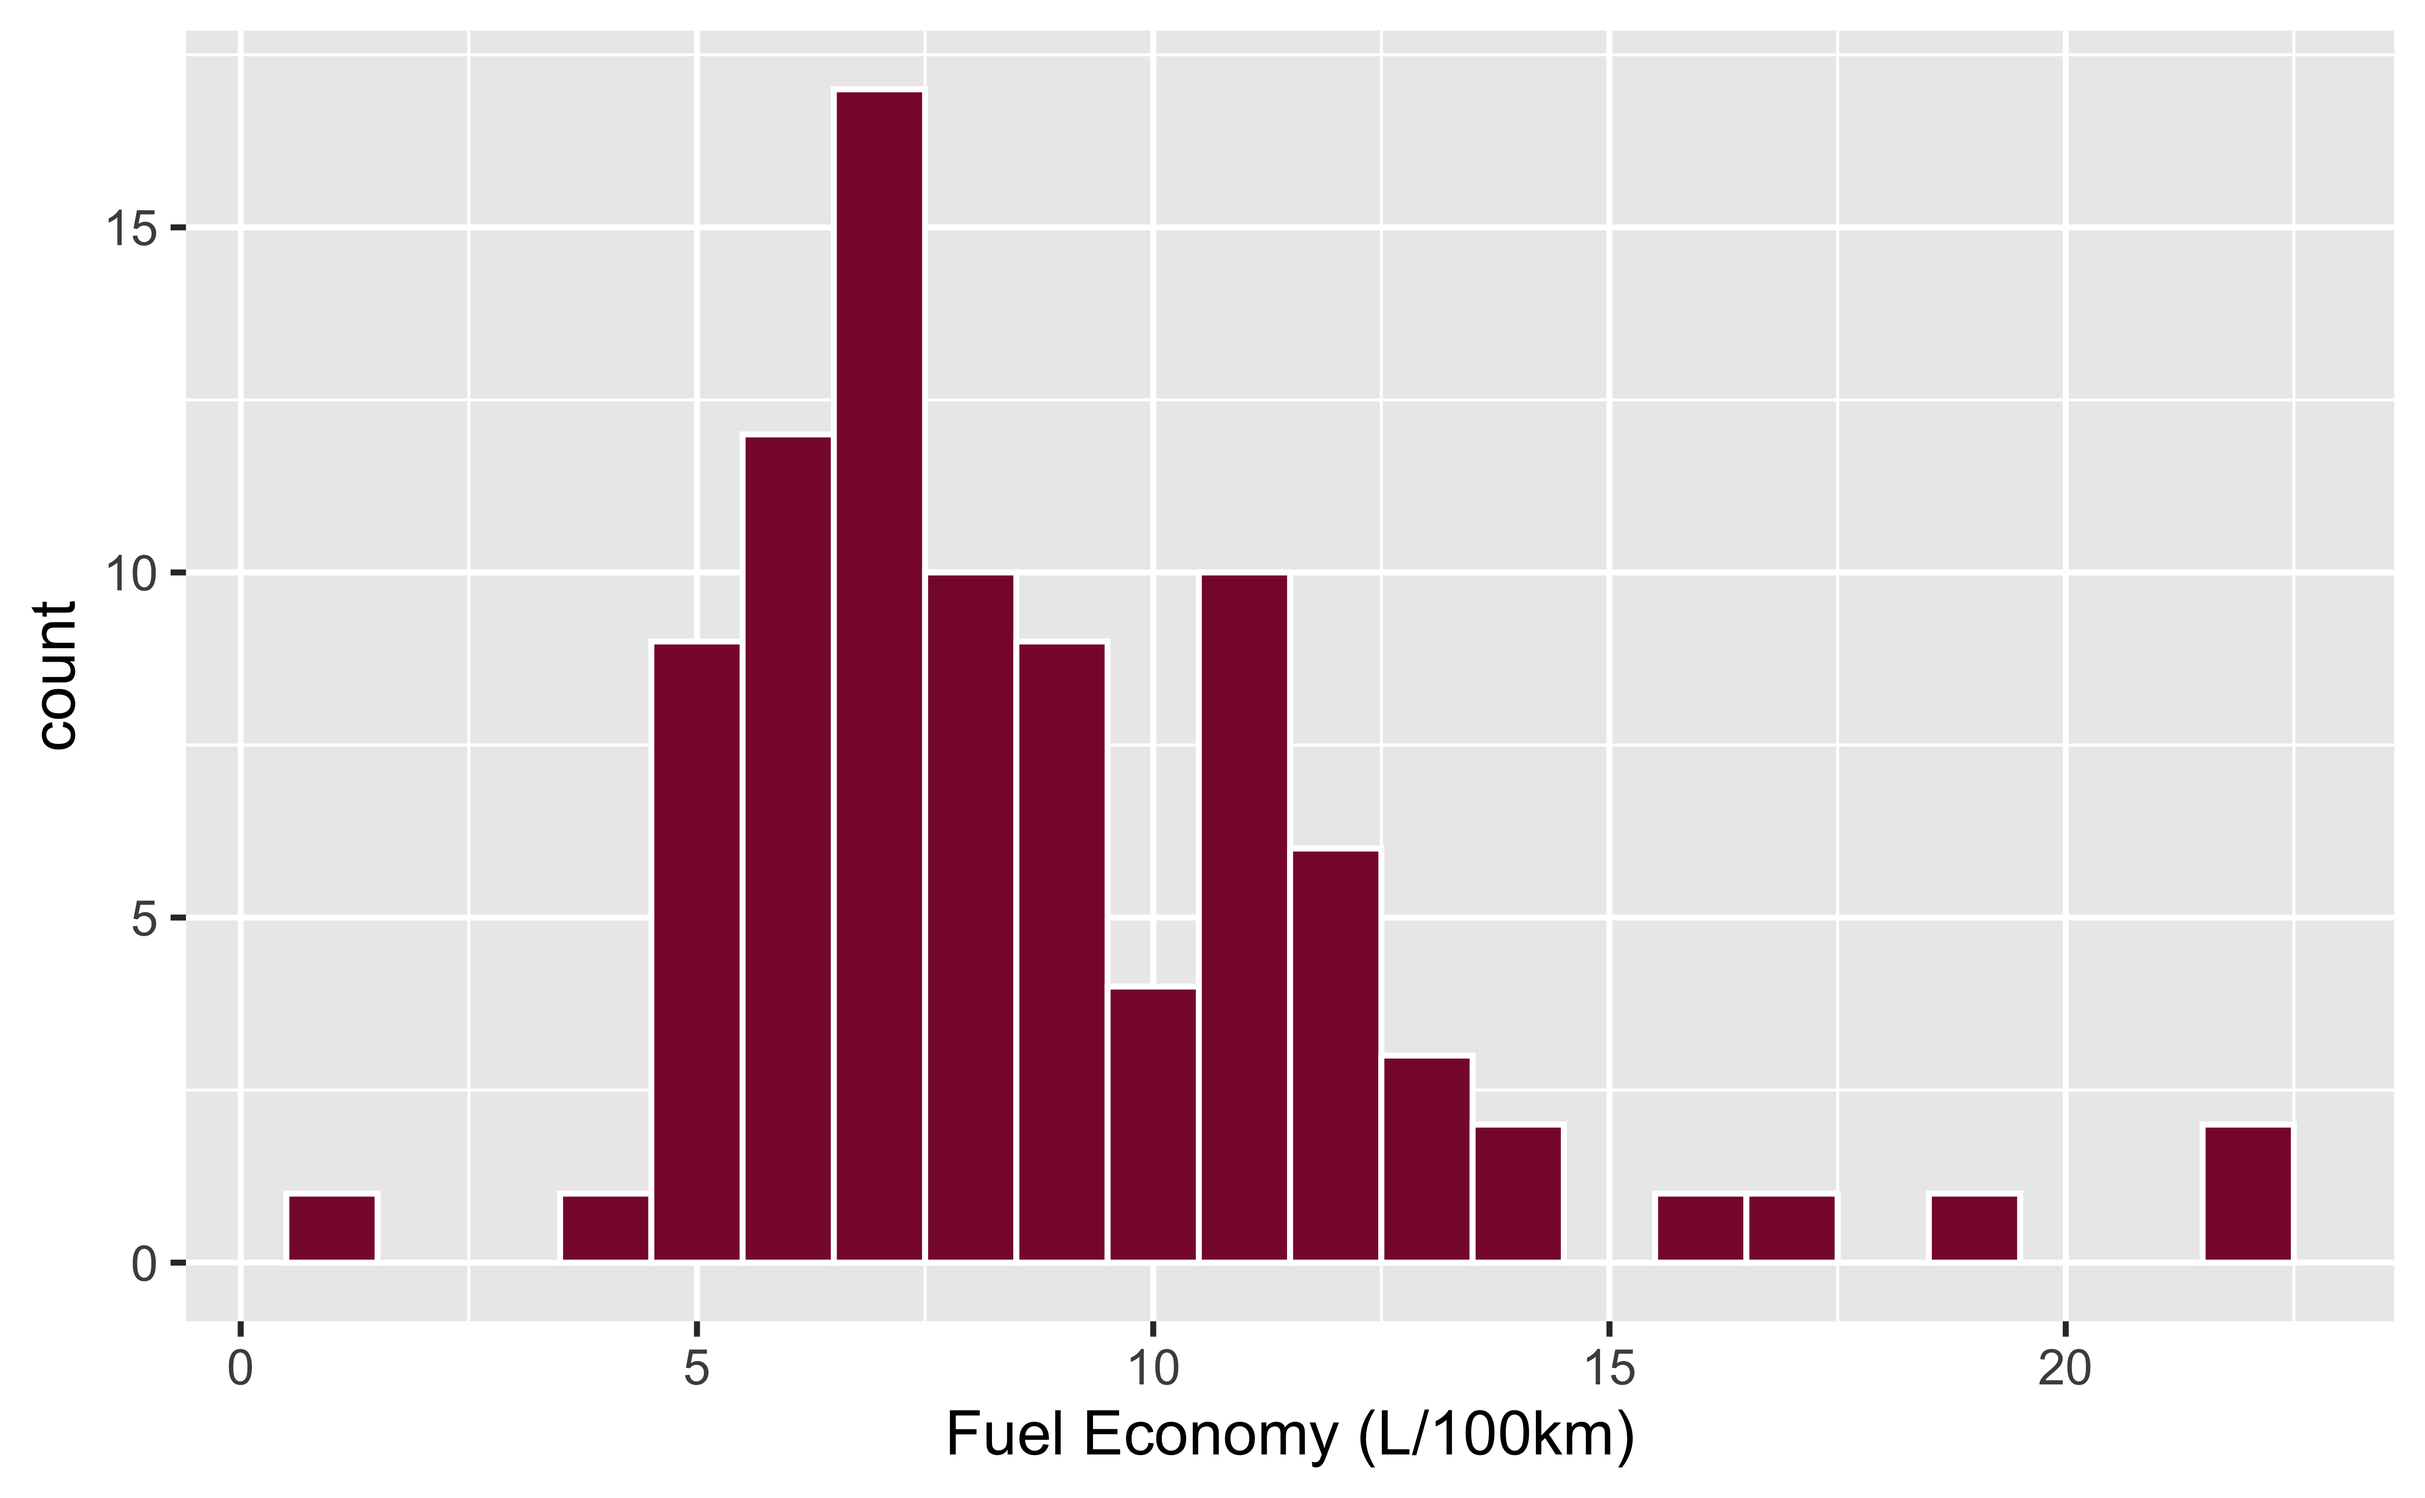
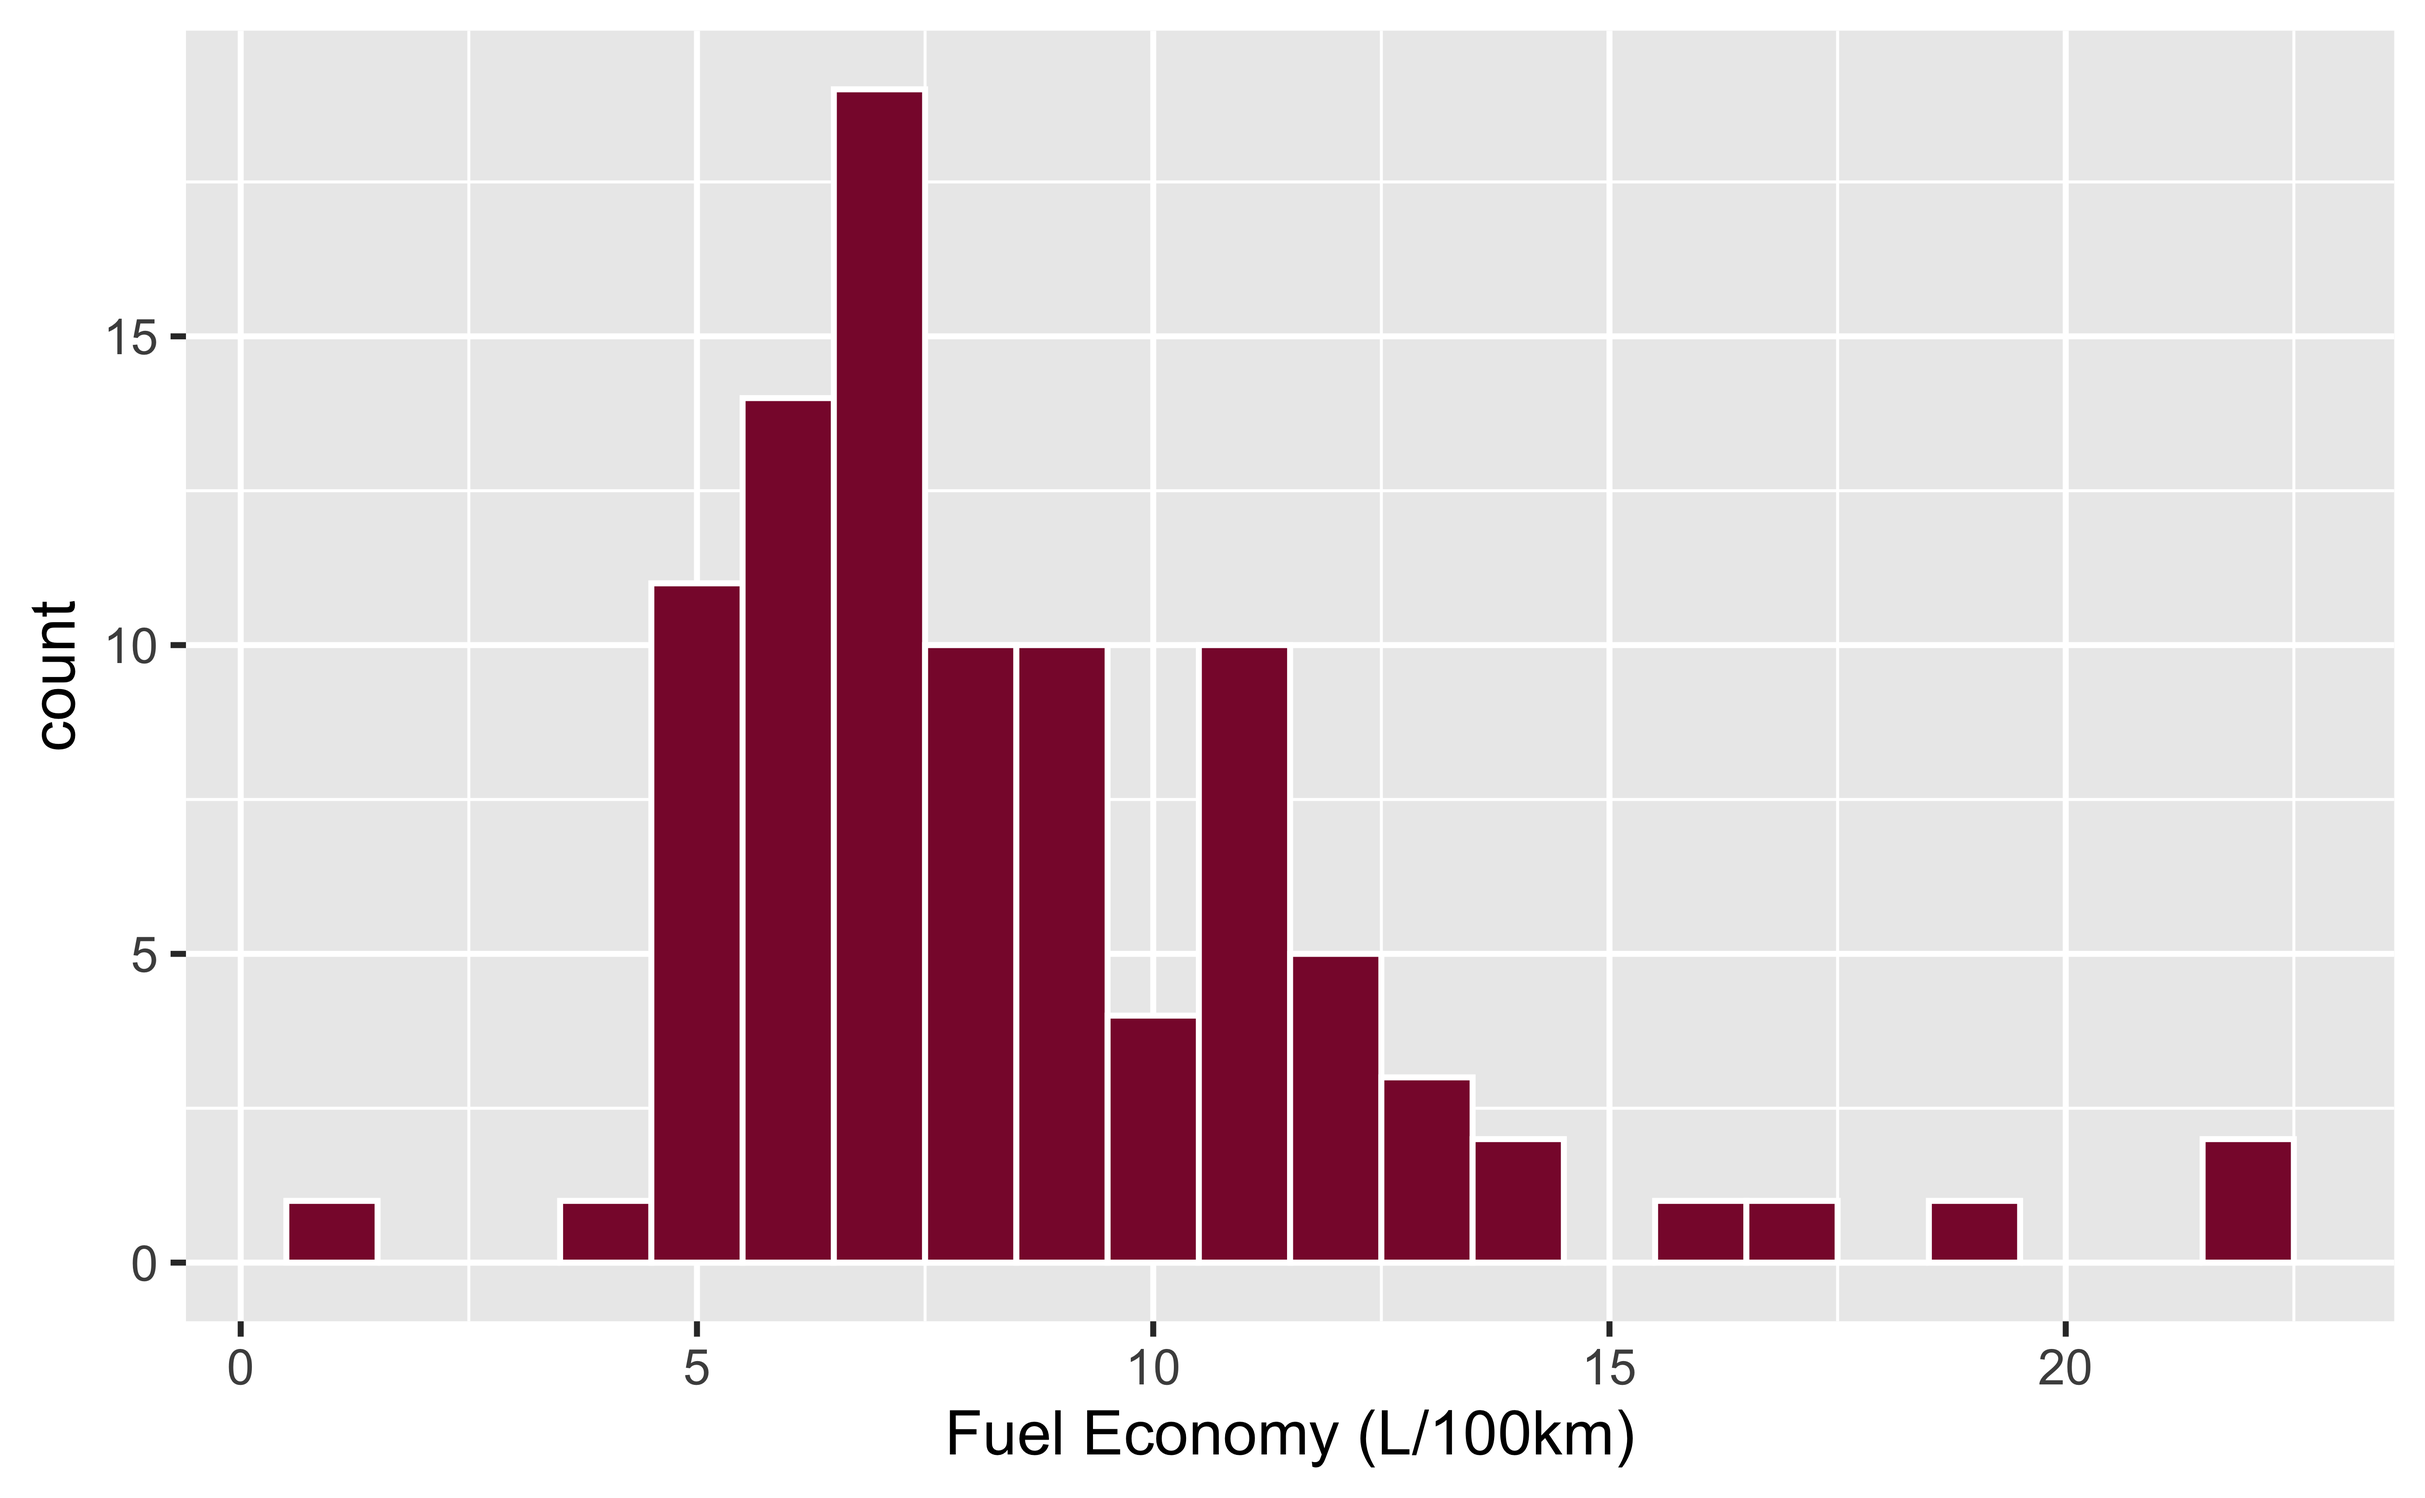
Demonstrate currency conversion + color

diff --git a/README.md b/README.md
@@ -9,14 +9,14 @@
 <!-- badges: start -->
 
 [![CRAN
-status](https://www.r-pkg.org/badges/version/qatarcars)](https://cran.r-project.org/package=qatarcars)
+status](https://www.r-pkg.org/badges/version/qatarcars.png)](https://cran.r-project.org/package=qatarcars)
 [![R-CMD-check](https://github.com/profmusgrave/qatarcars/actions/workflows/R-CMD-check.yaml/badge.svg)](https://github.com/profmusgrave/qatarcars/actions/workflows/R-CMD-check.yaml)
 [![Lifecycle:
 stable](https://img.shields.io/badge/lifecycle-stable-brightgreen.svg)](https://lifecycle.r-lib.org/articles/stages.html#stable)
 <br>
 [![DOI](https://img.shields.io/badge/JPSE_DOI-10.1080%2F15512169.2025.2572320-336197)](https://doi.org/10.1080/15512169.2025.2572320)
 ![CC-BY-4.0
-license](https://img.shields.io/github/license/profmusgrave/qatarcars)
+license](https://img.shields.io/github/license/profmusgrave/qatarcars.png)
 <!-- badges: end -->
 
 ## Overview
@@ -28,17 +28,17 @@ metric measurements, making it more appropriate for use as an example
 dataset outside the United States. It includes almost exactly the same
 variables as the `mtcars` dataset:
 
-- `origin` (the country associated with the car brand)
-- `make` (the brand of the car, such as Toyota or Land Rover)
-- `model` (the specific type of car, such as Land Cruiser or Defender)
-- `length`, `width`, and `height` (all in meters)
-- `trunk` capacity (measured in liters)
-- fuel `economy` (measured in liters per 100 km)
-- `performance` (time in seconds to accelerate from 0 to 100km/h)
-- `mass` in kilograms
-- `price` in 2025 Qatari riyals
-- `type` (the type of the car, such as coupe, sedan, or SUV)
-- `enginetype` (electric, hybrid, or petrol)
+-   `origin` (the country associated with the car brand)
+-   `make` (the brand of the car, such as Toyota or Land Rover)
+-   `model` (the specific type of car, such as Land Cruiser or Defender)
+-   `length`, `width`, and `height` (all in meters)
+-   `trunk` capacity (measured in liters)
+-   fuel `economy` (measured in liters per 100 km)
+-   `performance` (time in seconds to accelerate from 0 to 100km/h)
+-   `mass` in kilograms
+-   `price` in 2025 Qatari riyals
+-   `type` (the type of the car, such as coupe, sedan, or SUV)
+-   `enginetype` (electric, hybrid, or petrol)
 
 The original data was compiled by [Paul
 Musgrave](https://paulmusgrave.info/) in January 2025 and is mostly
@@ -58,45 +58,45 @@ and process of collecting the data:
 
 The Qatar Cars data is available in several different formats:
 
-- **This {qatarcars} R package**. See below for complete details. Load
-  like this:
+-   **This {qatarcars} R package**. See below for complete details. Load
+    like this:
 
-  ``` r
-  library(qatarcars)
-  qatarcars
-  ```
+    ``` r
+    library(qatarcars)
+    qatarcars
+    ```
 
-- [**Plain text CSV
-  file**](https://github.com/profmusgrave/qatarcars/blob/main/inst/extdata/qatarcars.csv).
-  Use with any software.
+-   [**Plain text CSV
+    file**](https://github.com/profmusgrave/qatarcars/blob/main/inst/extdata/qatarcars.csv).
+    Use with any software.
 
-- [**Stata .dta
-  file**](https://qatarcars.georgetown.domains/qatarcars.dta). Load like
-  this:
+-   [**Stata .dta
+    file**](https://qatarcars.georgetown.domains/qatarcars.dta). Load
+    like this:
 
-  ``` stata
-  use "https://qatarcars.georgetown.domains/qatarcars.dta"
-  list in 1/6
-  ```
+    ``` stata
+    use "https://qatarcars.georgetown.domains/qatarcars.dta"
+    list in 1/6
+    ```
 
-- [**R .rds
-  file**](https://github.com/profmusgrave/qatarcars/blob/main/inst/extdata/qatarcars.rds).
-  Load like this:
+-   [**R .rds
+    file**](https://github.com/profmusgrave/qatarcars/blob/main/inst/extdata/qatarcars.rds).
+    Load like this:
 
-  ``` r
-  df <- readRDS("qatarcars.rds")
-  head(df)
-  ```
+    ``` r
+    df <- readRDS("qatarcars.rds")
+    head(df)
+    ```
 
-- [**The QatarCars Python
-  package**](https://github.com/prlitics/qatarcars). Install with
-  `pip install qatarcars`, then load like this:
+-   [**The QatarCars Python
+    package**](https://github.com/prlitics/qatarcars). Install with
+    `pip install qatarcars`, then load like this:
 
-  ``` python
-  from qatarcars import get_qatar_cars
-  df = get_qatar_cars("pandas")  # or "polars"
-  df.head()
-  ```
+    ``` python
+    from qatarcars import get_qatar_cars
+    df = get_qatar_cars("pandas")  # or "polars"
+    df.head()
+    ```
 
 ## Installation
 
@@ -128,25 +128,25 @@ the data by running `library(qatarcars)`:
 library(qatarcars)
 
 qatarcars
-#> # A tibble: 99 × 15
+#> # A tibble: 105 × 15
 #>    origin  make     model   length width height seating trunk economy horsepower
 #>    <fct>   <fct>    <fct>    <dbl> <dbl>  <dbl>   <dbl> <dbl>   <dbl>      <dbl>
-#>  1 Germany BMW      3 Seri…   4.71  1.83   1.44       5   480    11.8        184
-#>  2 Germany BMW      3 Seri…   4.71  1.83   1.44       5    59     7.6        386
-#>  3 Germany BMW      X1        4.50  1.84   1.64       5   505     6.6        313
-#>  4 Germany Audi     RS Q8     5.01  1.69   2.00       5   605    12.1        600
-#>  5 Germany Audi     RS3       4.54  1.85   1.41       5   321     8.7        400
-#>  6 Germany Audi     A3        4.46  1.96   1.42       5   425     6.5        180
-#>  7 Germany Mercedes Maybach   5.47  1.92   1.51       4   500    13.3        612
-#>  8 Germany Mercedes G-Wagon   4.61  1.98   1.97       5   480    13.1        585
-#>  9 Germany Mercedes EQS       5.22  1.93   1.51       5   610    NA          333
-#> 10 Germany Mercedes GLA       4.41  1.83   1.61       5   435     5.6        163
-#> # ℹ 89 more rows
+#>  1 Germany BMW      3 Seri…   4.71  1.83   1.44       5    59     7.6        386
+#>  2 Germany BMW      X1        4.50  1.84   1.64       5   505     6.6        313
+#>  3 Germany Audi     RS Q8     5.01  1.69   2.00       5   605    12.1        600
+#>  4 Germany Audi     RS3       4.54  1.85   1.41       5   321     8.7        400
+#>  5 Germany Audi     A3        4.46  1.96   1.42       5   425     6.5        180
+#>  6 Germany Mercedes Maybach   5.47  1.92   1.51       4   500    13.3        612
+#>  7 Germany Mercedes G-Wagon   4.61  1.98   1.97       5   480    13.1        585
+#>  8 Germany Mercedes EQS       5.22  1.93   1.51       5   610    NA          333
+#>  9 Germany Mercedes GLA       4.41  1.83   1.61       5   435     5.6        163
+#> 10 Germany Mercedes GLB 200   4.63  4.63   1.66       5   565     7.5        221
+#> # ℹ 95 more rows
 #> # ℹ 5 more variables: price <dbl>, mass <dbl>, performance <dbl>, type <fct>,
 #> #   enginetype <fct>
 ```
 
-> [!TIP]
+> **Tip**
 >
 > If you have [{tibble}](https://tibble.tidyverse.org/) installed
 > (likely as part of [the tidyverse](https://www.tidyverse.org/)),
@@ -155,6 +155,70 @@ qatarcars
 > frame.
 
 See `?qatarcars` for data documentation within R.
+
+### Currency conversion
+
+Prices are stored as Qatari Riyals (QAR). At the time of data collection
+in January 2025, the exchange rates between QAR and US Dollars and Euros
+were:
+
+-   1 USD = 3.64 QAR
+-   1 EUR = 4.15 QAR
+
+For convenience, this package includes functions for converting between
+these three currencies based on January 2025 exchange rates:
+
+``` r
+qar_to_usd(qar)
+qar_to_eur(qar)
+usd_to_qar(usd)
+usd_to_eur(usd)
+eur_to_qar(eur)
+eur_to_usd(eur)
+```
+
+``` r
+library(dplyr)
+
+qatarcars |>
+  mutate(
+    price_eur = qar_to_eur(price),
+    price_usd = qar_to_usd(price)
+  ) |>
+  select(origin, make, model, starts_with("price"))
+#> # A tibble: 105 × 6
+#>    origin  make     model            price price_eur price_usd
+#>    <fct>   <fct>    <fct>            <dbl>     <dbl>     <dbl>
+#>  1 Germany BMW      3 Series Sedan  164257    39580     45126.
+#>  2 Germany BMW      X1              264000    63614.    72527.
+#>  3 Germany Audi     RS Q8           630000   151807.   173077.
+#>  4 Germany Audi     RS3             310000    74699.    85165.
+#>  5 Germany Audi     A3              165000    39759.    45330.
+#>  6 Germany Mercedes Maybach        1281000   308675.   351923.
+#>  7 Germany Mercedes G-Wagon        1011500   243735.   277885.
+#>  8 Germany Mercedes EQS             564500   136024.   155082.
+#>  9 Germany Mercedes GLA             209500    50482.    57555.
+#> 10 Germany Mercedes GLB 200         168997    40722.    46428.
+#> # ℹ 95 more rows
+```
+
+### Color
+
+The official colors of the Qatari flag are [white and Pantone 1955 C, or
+“Qatar maroon.”](https://en.wikipedia.org/wiki/Flag_of_Qatar) The hex
+representation of this color is `#8A1538`.
+
+For convenience, this is included as `qatar_maroon`:
+
+``` r
+qatar_maroon
+#> [1] "#8A1538"
+
+scales::show_col(qatar_maroon)
+```
+
+<img src="man/figures/README-show-qatar-maroon-1.png"
+style="width:25.0%" data-fig-align="center" />
 
 ### Labels
 
@@ -178,11 +242,24 @@ labels](https://www.tidyverse.org/blog/2025/09/ggplot2-4-0-0/#labels):
 library(ggplot2)
 
 ggplot(qatarcars, aes(x = economy)) + 
-  geom_histogram(binwidth = 1, fill = "#8A1538", color = "white")
+  geom_histogram(binwidth = 1, fill = qatar_maroon, color = "white")
 ```
 
 <img src="man/figures/README-plot-economy-histogram-1.png"
-style="width:70.0%" data-fig-align="center" />
+style="width:80.0%" data-fig-align="center" />
+
+The various currency conversion functions also update the labels:
+
+``` r
+qatarcars |> 
+  mutate(price_eur = qar_to_eur(price)) |> 
+  ggplot(aes(x = price_eur)) +
+  geom_histogram(bins = 20, fill = qatar_maroon, color = "white")  +
+  scale_x_log10(labels = scales::label_currency(prefix = "€"))
+```
+
+<img src="man/figures/README-plot-price-eur-1.png" style="width:80.0%"
+data-fig-align="center" />
 
 ## Examples
 
@@ -196,7 +273,7 @@ ggplot(qatarcars, aes(x = mass, y = economy)) +
 ```
 
 <img src="man/figures/README-plot-mass-economy-1.png"
-style="width:70.0%" data-fig-align="center" />
+style="width:80.0%" data-fig-align="center" />
 
 Some of these cars are really expensive, so logging the price is
 helpful:
@@ -209,4 +286,18 @@ ggplot(qatarcars, aes(x = performance, y = price)) +
 ```
 
 <img src="man/figures/README-plot-performance-price-1.png"
-style="width:70.0%" data-fig-align="center" />
+style="width:80.0%" data-fig-align="center" />
+
+Or in dollars:
+
+``` r
+qatarcars |> 
+  mutate(price_usd = qar_to_usd(price)) |> 
+  ggplot(aes(x = performance, y = price_usd)) +
+  geom_smooth() +
+  geom_point(aes(color = type)) +
+  scale_y_log10(labels = scales::label_currency(prefix = "$"))
+```
+
+<img src="man/figures/README-plot-performance-price-usd-1.png"
+style="width:80.0%" data-fig-align="center" />
